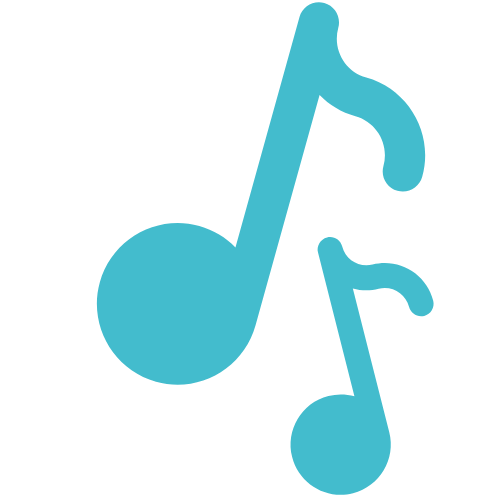
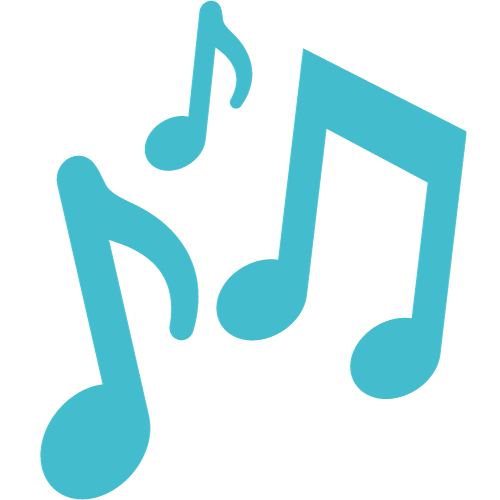
edited styles of homepage

diff --git a/client/src/components/Home/AboutCard.jsx b/client/src/components/Home/AboutCard.jsx
@@ -10,6 +10,7 @@ import liveSiteDemo10 from "../../assets/home/liveSiteDemo/liveSiteDemo10.png";
 import liveSiteDemo13 from "../../assets/home/liveSiteDemo/liveSiteDemo13.png";
 import { MobileContext } from "../../App";
 import Animate from "../../utils/ScrollAnimation";
+import musicNoteBkgd from "../../assets/musicNoteBkgd.png";
 
 export default function AboutCard() {
   const { isMobile } = useContext(MobileContext);
@@ -29,6 +30,7 @@ export default function AboutCard() {
         <Typography level="h2">Customizable Tools and Resources...</Typography>
         <Animate>
           <img
+            id="getOrganizedLogo"
             className="hero-bg"
             src={getOrganized}
             style={styles.logo}
@@ -39,14 +41,21 @@ export default function AboutCard() {
         <Typography level="h3">Create Skill Sheets...</Typography>
 
         <img
+          id="skillSheetDemo"
           src={!isMobile ? liveSiteDemo3 : liveSiteDemo10}
-          style={styles.image}
+          style={{ ...styles.image, zIndex: "50" }}
           width={!isMobile ? "70%" : "80%"}
           alt="skill sheets"
         />
-
+        {/* Features grid */}
         <Grid container display={"flex"} justifyContent={"center"}>
-          <Grid xs={12} lg={4}>
+          {/* Section for showing how to create a skill sheet */}
+          <Grid
+            id="flexibilityAndCustomizable"
+            xs={12}
+            lg={4}
+            sx={{ zIndex: "50" }}
+          >
             <Typography level="h4" sx={{ textDecoration: "underline" }}>
               Flexibility and Customizable
             </Typography>
@@ -57,15 +66,23 @@ export default function AboutCard() {
             </Typography>
 
             <List>
-              <ListItem>Create your own exercises and skills</ListItem>
-              <ListItem>Select a difficulty</ListItem>
-              <ListItem>
+              <ListItem sx={styles.listHover}>
+                Create your own exercises and skills
+              </ListItem>
+              <ListItem sx={styles.listHover}>Select a difficulty</ListItem>
+              <ListItem sx={styles.listHover}>
                 Select from a list of badges for students to earn by completing
                 the sheet.
               </ListItem>
             </List>
           </Grid>
-          <Grid xs={12} lg={4} pl={2}>
+          {/* Background music note image */}
+          <img
+            src={musicNoteBkgd}
+            alt="music note background"
+            style={styles.backgroundImg}
+          />
+          <Grid xs={12} lg={4} pl={2} sx={{ zIndex: "50" }}>
             <img
               src={liveSiteDemo2}
               style={styles.image}
@@ -74,23 +91,26 @@ export default function AboutCard() {
             />
           </Grid>
         </Grid>
-
+        {/* Section for showing how to make a practice plan */}
         <Typography level="h3">Make Practice Plans...</Typography>
         <Typography>
           Create practice plans for students to keep them on track. Students and
           teachers can track their progress in each plan to see how much they
           have accomplished.
         </Typography>
-
         <img
           src={liveSiteDemo9}
           style={styles.image}
           width={!isMobile ? "70%" : "100%"}
           alt="create practice plan"
         />
-
-        <Grid container display={"flex"} justifyContent={"space-around"}>
-          <Grid xs={12} lg={4}>
+        <Grid
+          id="assignmentsAndResources"
+          container
+          display={"flex"}
+          justifyContent={"space-around"}
+        >
+          <Grid id="assignmentsDemo" xs={12} lg={4}>
             <Typography level="h3">Add Assignments...</Typography>
             <Typography>
               Add Assignments and give points for completing the assignment.
@@ -102,7 +122,7 @@ export default function AboutCard() {
               alt="create practice plan"
             />
           </Grid>
-          <Grid xs={12} lg={4}>
+          <Grid id="resourcesDemo" xs={12} lg={4}>
             <Typography level="h3">Add Resources...</Typography>
             <Typography>
               Add resources to help students with their assignments. Resources

diff --git a/client/src/components/Home/AboutFeaturesCard.jsx b/client/src/components/Home/AboutFeaturesCard.jsx
@@ -23,10 +23,14 @@ export default function AboutFeaturesCard() {
           />
 
           <List sx={styles.list}>
-            <ListItem>Get Help identifying the issue</ListItem>
+            <ListItem sx={styles.listHover}>
+              Get Help identifying the issue
+            </ListItem>
             <Divider />
-            <ListItem>
-              Step by stp instructons for troubleshooting the problem
+            <ListItem sx={styles.listHover}>Start fixing the issue</ListItem>
+            <Divider />
+            <ListItem sx={styles.listHover}>
+              Step by step instructons for troubleshooting the problem
             </ListItem>
           </List>
         </Grid>
@@ -41,11 +45,13 @@ export default function AboutFeaturesCard() {
           />
 
           <List sx={styles.list}>
-            <ListItem>Timed Practicing</ListItem>
+            <ListItem sx={styles.listHover}>Timed Practicing</ListItem>
             <Divider />
-            <ListItem>Go on a streak with a certain skill</ListItem>
+            <ListItem sx={styles.listHover}>
+              Go on a streak with a certain skill
+            </ListItem>
             <Divider />
-            <ListItem>View practice plans</ListItem>
+            <ListItem sx={styles.listHover}>View practice plans</ListItem>
           </List>
         </Grid>
         <Grid xs={12} md={4} sx={styles.grid}>
@@ -59,9 +65,17 @@ export default function AboutFeaturesCard() {
           />
 
           <List sx={styles.list}>
-            <ListItem>Create skill sheets to challenge your students</ListItem>
+            <ListItem sx={styles.listHover}>
+              Create skill sheets to challenge your students
+            </ListItem>
             <Divider />
-            <ListItem>Earn Badges for completing sheets</ListItem>
+            <ListItem sx={styles.listHover}>
+              Earn Badges for completing sheets
+            </ListItem>
+            <Divider />
+            <ListItem sx={styles.listHover}>
+              Track your students' progress
+            </ListItem>
           </List>
         </Grid>
       </Grid>

diff --git a/client/src/components/Home/WelcomeCard.jsx b/client/src/components/Home/WelcomeCard.jsx
@@ -14,7 +14,7 @@ import {
 import { Link } from "react-router-dom";
 import studioHubLogo from "../../assets/home/studioHubLogo.png";
 import { MobileContext } from "../../App";
-import Animate from "../../utils/ScrollAnimation";
+import musicNoteBkgd from "../../assets/musicNoteBkgd.png";
 
 export default function WelcomeCard() {
   const { isMobile } = useContext(MobileContext);
@@ -35,21 +35,30 @@ export default function WelcomeCard() {
       variant="outlined"
       sx={!isMobile ? styles.card : styles.mobileCard}
     >
-      <Animate>
-        <img
-          className="hero-bg"
-          src={studioHubLogo}
-          style={styles.logo}
-          alt="studio hub logo"
-        />
-      </Animate>
-      <Typography level="h2">Welcome!</Typography>
-      <Typography level="h6" textAlign={"center"} sx={{ width: "70%" }}>
+      <img
+        className="hero-bg"
+        src={studioHubLogo}
+        style={{ ...styles.logo, zIndex: "100" }}
+        alt="studio hub logo"
+      />
+      <img
+        src={musicNoteBkgd}
+        alt="music note background"
+        style={styles.backgroundImg}
+      />
+      <Typography level="h2" sx={{ zIndex: "50" }}>
+        Welcome!
+      </Typography>
+      <Typography
+        level="h6"
+        textAlign={"center"}
+        sx={{ width: "70%", zIndex: "50" }}
+      >
         Welcome to Studio Hub! The one place where you can manage all of your
         music studio needs so that your lessons can be more efficient,
         productive, and versatile.
       </Typography>
-      <List sx={styles.list}>
+      <List sx={{ ...styles.list, zIndex: "50" }}>
         <ListItem sx={styles.listHover}>
           Create your own student databse
         </ListItem>

diff --git a/client/src/styles/homeStyles.jsx b/client/src/styles/homeStyles.jsx
@@ -10,6 +10,14 @@ export const styles = {
     boxShadow: "lg",
     whiteSpace: "pre-line",
   },
+  backgroundImg: {
+    position: "absolute",
+    width: "50%",
+    top: "30%",
+    left: "auto",
+    opacity: "0.2",
+    zIndex: "auto",
+  },
   mobileCard: {
     width: "100%",
     mx: "auto",
@@ -55,7 +63,7 @@ export const styles = {
   listHover: {
     "&:hover": {
       color: "#662e9b",
-      transition: "all 0.2s",
+      transition: "all 0.2s ease-in-out",
       fontWeight: "bold",
     },
   },

diff --git a/client/src/pages/Home.jsx b/client/src/pages/Home.jsx
@@ -33,7 +33,7 @@ const Home = () => {
 
       <Card id="aboutDatabaseCardWrapper">
         <CardCover>
-          <img src={mountainBkgd2} loading="lazy" alt="mountains" />
+          <img src={mountainBkgd2} alt="mountains" />
         </CardCover>
         <CardCover
           sx={{

diff --git a/client/src/utils/ScrollAnimation.jsx b/client/src/utils/ScrollAnimation.jsx
@@ -8,7 +8,7 @@ import { useEffect } from "react";
 // Create a wrapper component that will be used to wrap any component that needs to be animated
 const Animate = ({
   children,
-  anim = "zoom-in-up",
+  anim = "zoom-in",
   delay = "0",
   height = "auto",
 }) => {
